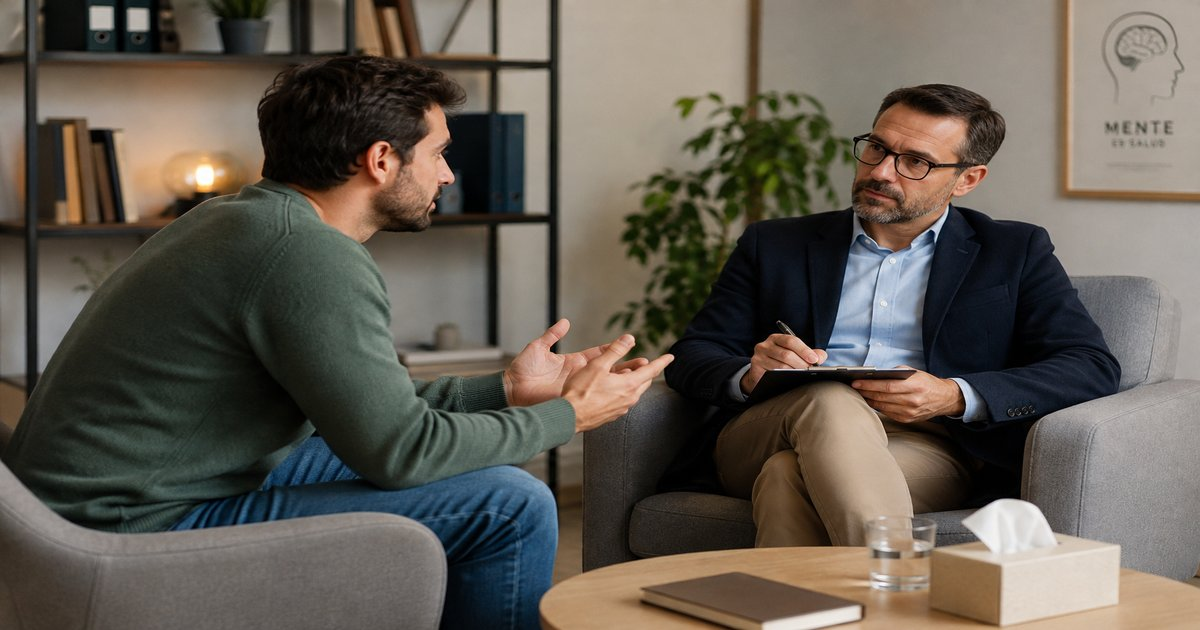
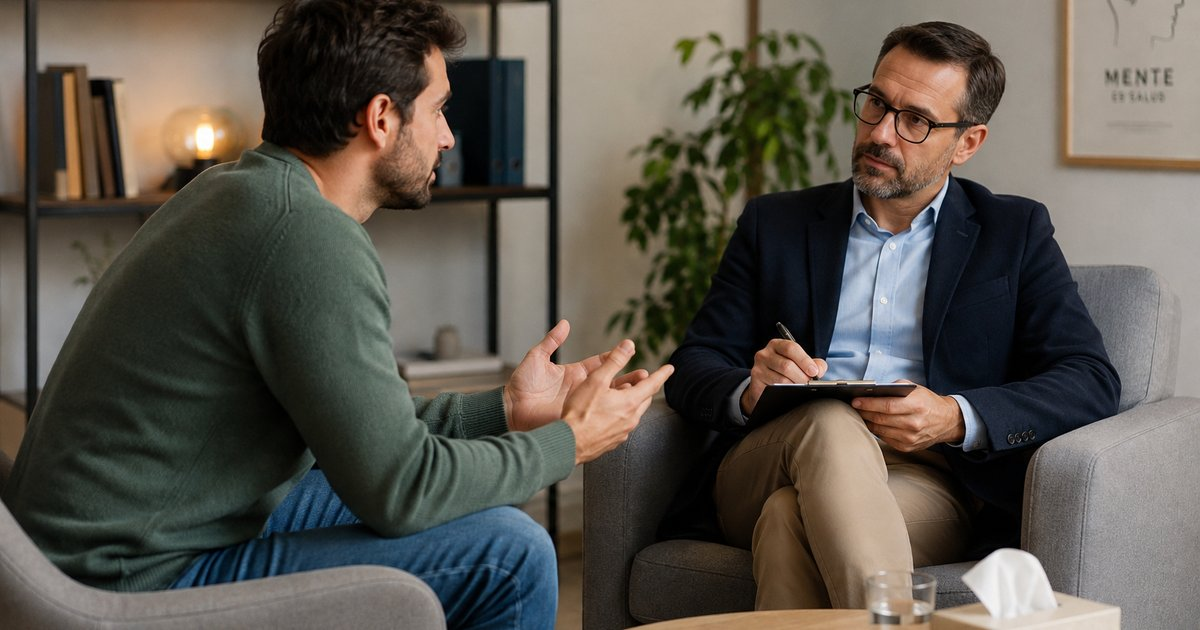
feat: actualizar imagen de previsualizacion WhatsApp con dimensiones 1200x630 optimizadas

diff --git a/docs/index.html b/docs/index.html
@@ -19,6 +19,9 @@
     <meta property="og:image:type" content="image/jpeg" />
     <meta property="og:image:width" content="1200" />
     <meta property="og:image:height" content="630" />
+    <meta property="og:image:alt" content="Instituto Ser Integral" />
+    <link rel="image_src" href="https://arcano3ai.github.io/Instituto-Ser-Integral/whatsapp-preview.jpg" />
+    <meta name="thumbnail" content="https://arcano3ai.github.io/Instituto-Ser-Integral/whatsapp-preview.jpg" />
 
     <!-- Twitter -->
     <meta property="twitter:card" content="summary_large_image" />

diff --git a/index.html b/index.html
@@ -19,6 +19,9 @@
     <meta property="og:image:type" content="image/jpeg" />
     <meta property="og:image:width" content="1200" />
     <meta property="og:image:height" content="630" />
+    <meta property="og:image:alt" content="Instituto Ser Integral" />
+    <link rel="image_src" href="https://arcano3ai.github.io/Instituto-Ser-Integral/whatsapp-preview.jpg" />
+    <meta name="thumbnail" content="https://arcano3ai.github.io/Instituto-Ser-Integral/whatsapp-preview.jpg" />
 
     <!-- Twitter -->
     <meta property="twitter:card" content="summary_large_image" />
